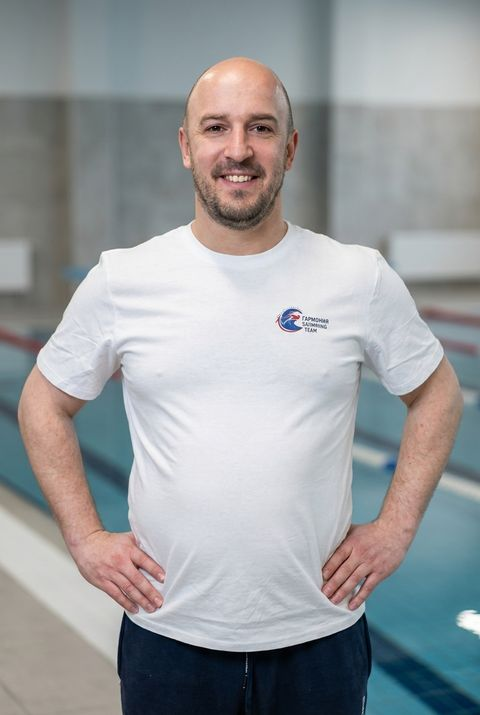
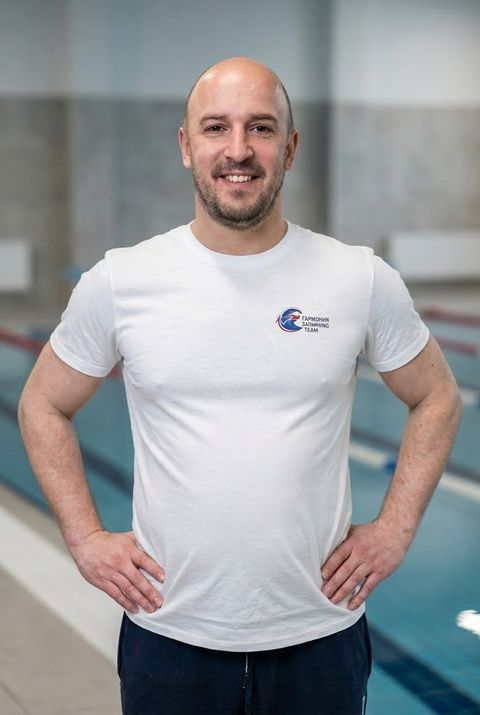
Hero: новое фото тренера и современная рамка
Скруглённое фото со свечением, сдвинутой золотой рамкой и плашками
«20+ лет тренирую» и «1000+ учеников» вместо арки.

diff --git a/assets/css/style.css b/assets/css/style.css
@@ -172,10 +172,20 @@ ul, ol { margin: 0; padding: 0; list-style: none; }
 .trust li { display: flex; align-items: center; gap: 8px; }
 .trust li::before { content: ""; width: 8px; height: 8px; transform: rotate(45deg); background: var(--gold); flex: none; }
 
-.hero__photo { margin: 0; position: relative; justify-self: center; width: min(420px, 86vw); }
+.hero__photo { margin: 0; position: relative; justify-self: center; width: min(400px, 78vw); isolation: isolate; }
+/* мягкое свечение и тонкая золотая рамка со сдвигом за фото */
+.hero__photo::before { content: ""; position: absolute; inset: 22px -22px -22px 22px; border: 1.5px solid rgba(230, 198, 92, .55); border-radius: 30px; z-index: -1; }
+.hero__photo::after { content: ""; position: absolute; inset: 8% -18% -6% -18%; background: radial-gradient(closest-side, rgba(106, 71, 181, .7), rgba(27, 63, 158, .35) 55%, transparent 75%); filter: blur(24px); z-index: -2; }
+.hero__shot { position: relative; border-radius: 28px; overflow: hidden; box-shadow: 0 40px 80px -32px rgba(0, 0, 0, .8), inset 0 0 0 1px rgba(255, 255, 255, .14); }
+.hero__shot::after { content: ""; position: absolute; inset: 0; border-radius: inherit; box-shadow: inset 0 0 0 1px rgba(255, 255, 255, .16); background: linear-gradient(180deg, transparent 62%, rgba(10, 26, 63, .45)); pointer-events: none; }
+.hero__shot img { width: 100%; aspect-ratio: 4 / 5; object-fit: cover; object-position: 50% 18%; }
+.hero__chip { position: absolute; margin: 0; display: flex; flex-direction: column; gap: 2px; padding: 12px 16px; border-radius: 16px; color: var(--white); background: rgba(10, 26, 63, .42); border: 1px solid rgba(255, 251, 242, .22); backdrop-filter: blur(14px) saturate(140%); -webkit-backdrop-filter: blur(14px) saturate(140%); box-shadow: 0 16px 34px -18px rgba(0, 0, 0, .8); }
+.hero__chip b { font: 700 22px/1 var(--font-head); color: var(--gold-l); }
+.hero__chip span { font-size: 12.5px; font-weight: 600; opacity: .9; }
+.hero__chip--top { top: 28px; right: -14px; }
+.hero__chip--bottom { bottom: 34px; left: -14px; }
+@media (min-width: 960px) { .hero__chip--top { right: -34px; } .hero__chip--bottom { left: -40px; } }
 .frame { position: relative; margin: 0; }
-.frame--arch { border-radius: 999px 999px 26px 26px; padding: 8px; background: linear-gradient(170deg, var(--gold-l), var(--gold) 40%, rgba(201, 162, 39, .25)); box-shadow: 0 40px 80px -40px rgba(0, 0, 0, .8); }
-.frame--arch img { border-radius: 999px 999px 20px 20px; aspect-ratio: 848 / 1100; object-fit: cover; object-position: 50% 12%; width: 100%; }
 
 .bubbles i { position: absolute; bottom: -20px; width: var(--s, 10px); height: var(--s, 10px); border-radius: 50%; border: 1.5px solid rgba(255, 251, 242, .45); background: radial-gradient(circle at 30% 30%, rgba(255, 255, 255, .5), transparent 60%); animation: rise var(--d, 14s) linear infinite; animation-delay: var(--delay, 0s); left: var(--x, 50%); opacity: 0; }
 .bubbles i:nth-child(1) { --x: 8%;  --s: 10px; --d: 15s; }

diff --git a/index.html b/index.html
@@ -206,12 +206,14 @@ window.METRIKA_ID = XXXXXXXX;
    </ul>
   </div>
   <figure class="hero__photo">
-   <div class="frame frame--arch">
+   <div class="hero__shot">
     <picture>
      <source type="image/webp" srcset="assets/img/hero-coach-480.webp 480w, assets/img/hero-coach-800.webp 800w, assets/img/hero-coach-848.webp 848w" sizes="(min-width: 960px) 40vw, 86vw">
      <img src="assets/img/hero-coach-800.jpg" srcset="assets/img/hero-coach-480.jpg 480w, assets/img/hero-coach-800.jpg 800w, assets/img/hero-coach-848.jpg 848w" sizes="(min-width: 960px) 40vw, 86vw" width="848" height="1264" alt="Тренер по плаванию Александр Шебанов в бассейне" fetchpriority="high">
     </picture>
    </div>
+   <p class="hero__chip hero__chip--top"><b data-bind="experienceYears">20+</b><span>лет тренирую</span></p>
+   <p class="hero__chip hero__chip--bottom"><b data-bind="studentsTotal">1000+</b><span>учеников</span></p>
   </figure>
  </div>
  <svg class="wave wave--animated" style="color:var(--cream)" viewBox="0 0 2880 80" preserveAspectRatio="none" aria-hidden="true"><use href="#wave-a" width="1440" height="80"/><use href="#wave-a" x="1440" width="1440" height="80"/></svg>

diff --git a/tools/optimize_images.py b/tools/optimize_images.py
@@ -16,7 +16,7 @@ WIDTHS = [480, 800, 1200, 1600]
 
 # key: (исходник, кроп (l, t, r, b) или None, зоны размытия [(l, t, r, b)])
 IMAGES = {
-    "hero-coach": (EDITED / "Generated Image October 17, 2026 - 3_13AM (1).jpg", None, []),
+    "hero-coach": (SITE / "assets" / "img" / "src" / "hero-coach-v2.jpg", None, []),
     "coach-team": (EDITED / "Generated Image October 17, 2026 - 3_19AM.jpg", None, []),
     # портреты на стене размыты, кадр обрезан выше обуви
     "coach-award": (
